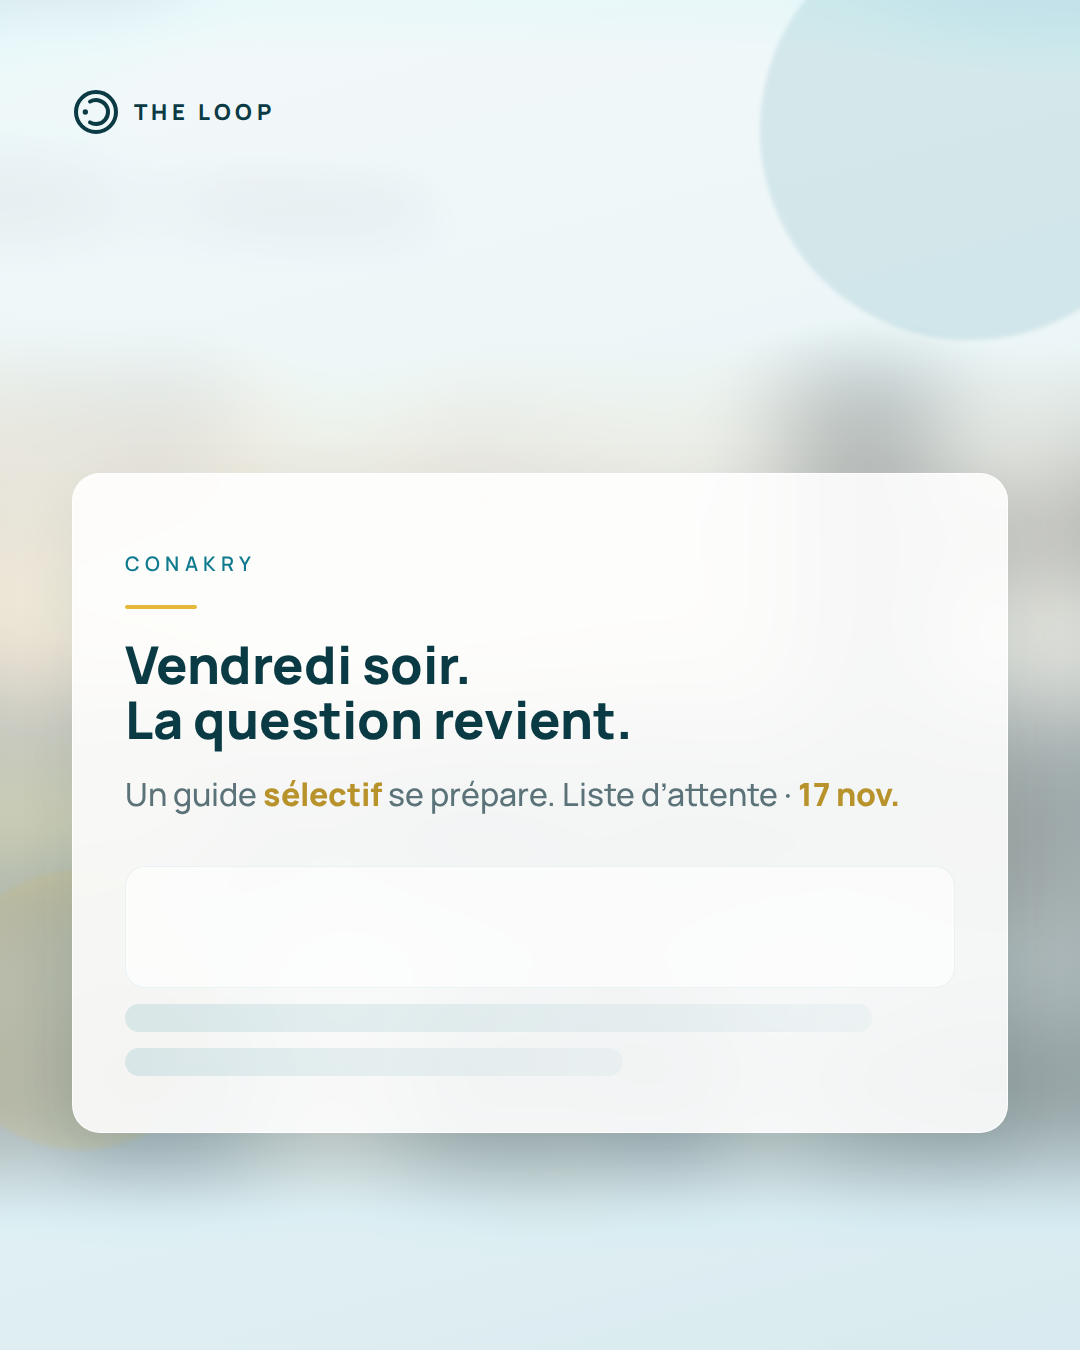
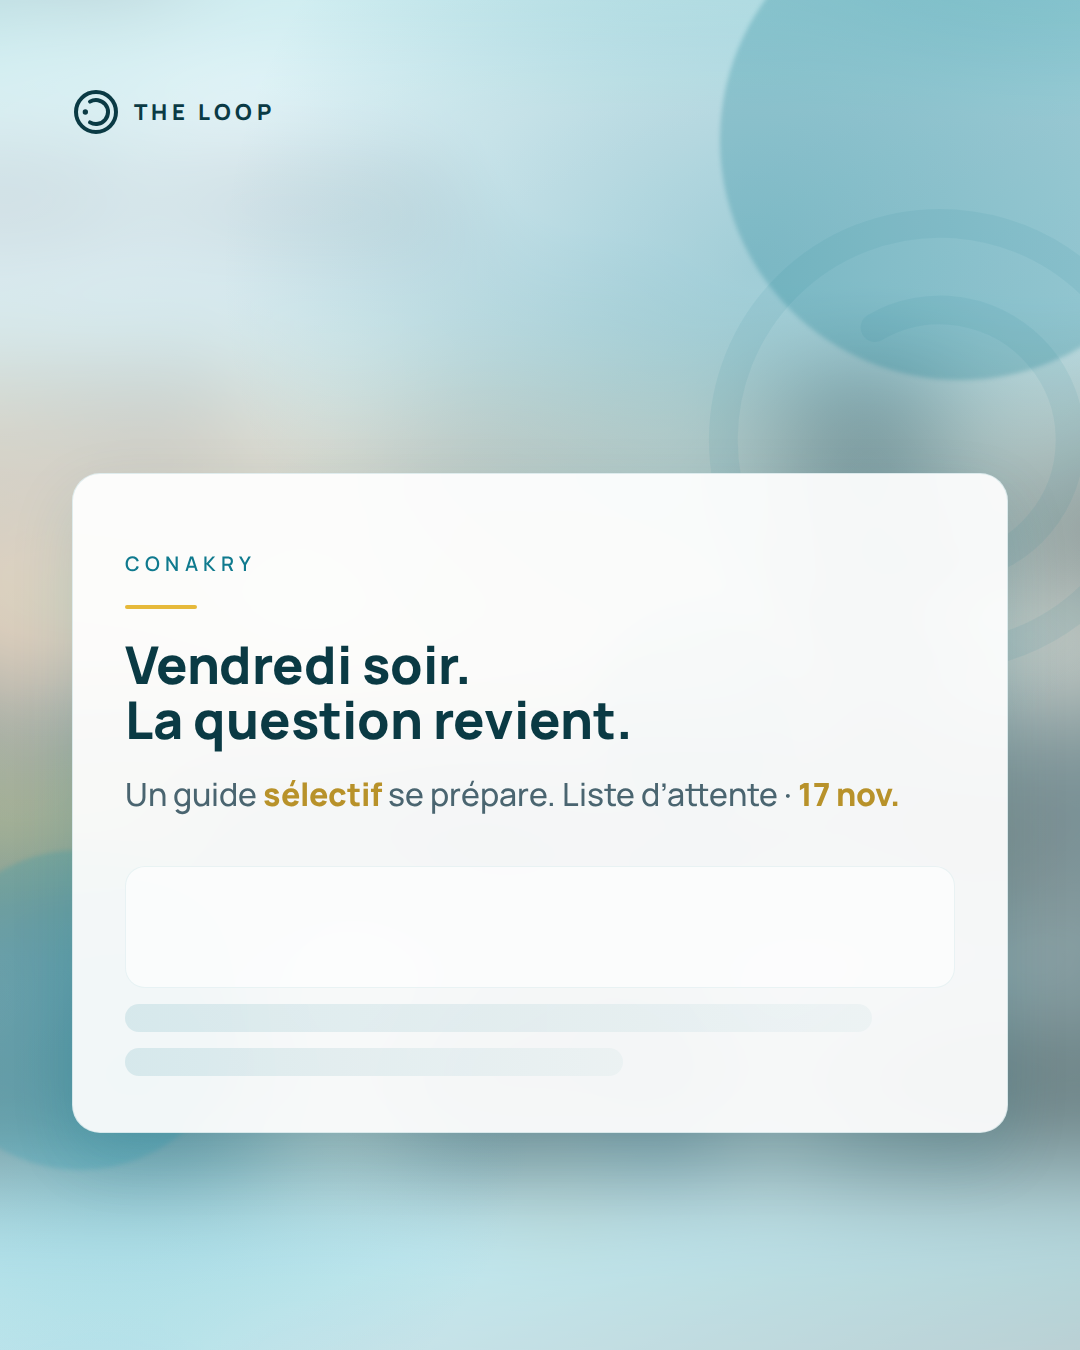
docs(com): fond texte bleu-vert renforcé + charte validée

diff --git a/docs/communication/lancement-2026/export-visuels-pack-acte-a-v4-light.html b/docs/communication/lancement-2026/export-visuels-pack-acte-a-v4-light.html
@@ -8,11 +8,13 @@
     :root {
       --deep: #0a3a44;
       --teal: #0f7a8e;
+      --teal-mid: #1596ad;
+      --teal-light: #a8d9e4;
       --gold: #e6b93a;
-      --bg: #eef6f8;
-      --bg2: #dceef2;
+      --bg: #dff0f4;
+      --bg2: #b5dde8;
       --card: #ffffff;
-      --muted: #5a7278;
+      --muted: #4a6570;
     }
     body { margin: 0; font-family: Manrope, sans-serif; background: #ccc; padding: 20px; }
     .label { color: #555; font-size: 11px; letter-spacing: 0.15em; text-transform: uppercase; text-align: center; margin: 28px 0 10px; }
@@ -22,7 +24,7 @@
       margin: 0 auto 16px;
       position: relative;
       overflow: hidden;
-      background: linear-gradient(165deg, var(--bg) 0%, var(--bg2) 55%, #c5e0e8 100%);
+      background: linear-gradient(155deg, var(--bg) 0%, var(--bg2) 42%, var(--teal-light) 78%, rgba(15,122,142,0.35) 100%);
       color: var(--deep);
     }
     .c.reel { height: 1920px; }
@@ -31,8 +33,25 @@
       position: absolute;
       inset: -20%;
       background: url('assets/capture-accueil-2.jpg') center 20% / cover no-repeat;
-      filter: blur(48px) saturate(0.85) brightness(1.15);
-      opacity: 0.35;
+      filter: blur(52px) saturate(1.25) brightness(1.05) hue-rotate(-8deg);
+      opacity: 0.42;
+    }
+    .atmo-teal {
+      position: absolute;
+      inset: 0;
+      background: radial-gradient(ellipse 90% 70% at 70% 20%, rgba(15,122,142,0.28), transparent 55%),
+        radial-gradient(ellipse 80% 60% at 10% 80%, rgba(21,150,173,0.22), transparent 50%);
+      pointer-events: none;
+      z-index: 1;
+    }
+    .watermark {
+      position: absolute;
+      right: -120px;
+      top: 180px;
+      width: 520px;
+      height: 520px;
+      opacity: 0.07;
+      z-index: 1;
     }
     .blobs {
       position: absolute;
@@ -44,8 +63,9 @@
       border-radius: 50%;
       filter: blur(2px);
     }
-    .blob.a { width: 420px; height: 420px; background: rgba(15,122,142,0.12); top: -80px; right: -100px; }
-    .blob.b { width: 280px; height: 280px; background: rgba(230,185,58,0.14); bottom: 200px; left: -60px; }
+    .blob.a { width: 480px; height: 480px; background: rgba(15,122,142,0.26); top: -100px; right: -120px; }
+    .blob.b { width: 320px; height: 320px; background: rgba(21,150,173,0.2); bottom: 180px; left: -80px; }
+    .blob.c { width: 200px; height: 200px; background: rgba(15,122,142,0.18); top: 45%; left: 55%; }
     .inner {
       position: relative;
       z-index: 2;
@@ -55,12 +75,12 @@
       flex-direction: column;
     }
     .card {
-      background: rgba(255,255,255,0.88);
-      backdrop-filter: blur(12px);
+      background: rgba(255,255,255,0.92);
+      backdrop-filter: blur(14px);
       border-radius: 28px;
       padding: 56px 52px;
-      box-shadow: 0 20px 60px rgba(10,58,68,0.08);
-      border: 1px solid rgba(255,255,255,0.9);
+      box-shadow: 0 24px 64px rgba(15,122,142,0.14);
+      border: 1px solid rgba(15,122,142,0.12);
       margin-top: auto;
       margin-bottom: auto;
     }
@@ -140,7 +160,9 @@
   <div class="label">#1 — 3/11 · Feed · clair + atmosphère (sans contenu lisible)</div>
   <div class="c">
     <div class="atmo"></div>
-    <div class="blobs"><div class="blob a"></div><div class="blob b"></div></div>
+    <div class="atmo-teal"></div>
+    <svg class="watermark" viewBox="0 0 36 36" fill="none"><circle cx="18" cy="18" r="15" stroke="#0F7A8E" stroke-width="2"/><path d="M 13.5 10.21 A 9 9 0 1 1 13.5 25.79" stroke="#0F7A8E" stroke-width="2" stroke-linecap="round"/></svg>
+    <div class="blobs"><div class="blob a"></div><div class="blob b"></div><div class="blob c"></div></div>
     <div class="inner">
       <div class="mark-row">
         <svg width="48" height="48" viewBox="0 0 36 36" fill="none"><circle cx="18" cy="18" r="15" stroke="#0A3A44" stroke-width="3"/><path d="M 13.5 10.21 A 9 9 0 1 1 13.5 25.79" stroke="#0A3A44" stroke-width="3" stroke-linecap="round"/><circle cx="10" cy="18" r="2" fill="#0A3A44"/></svg>
@@ -163,7 +185,8 @@
   <div class="label">#1 · Reels 9:16</div>
   <div class="c reel">
     <div class="atmo"></div>
-    <div class="blobs"><div class="blob b" style="top:120px;right:-40px"></div></div>
+    <div class="atmo-teal"></div>
+    <div class="blobs"><div class="blob a"></div><div class="blob b" style="top:120px;right:-40px"></div></div>
     <div class="inner" style="justify-content:flex-end;padding-bottom:160px">
       <div class="card">
         <p class="ey">The Loop</p>
@@ -176,7 +199,8 @@
 
   <div class="label">#2 — 5/11 · Signature · clair</div>
   <div class="c">
-    <div class="atmo" style="opacity:0.25;background-position:center 60%"></div>
+    <div class="atmo" style="background-position:center 60%"></div>
+    <div class="atmo-teal"></div>
     <div class="inner" style="justify-content:center">
       <div class="card" style="text-align:center">
         <p class="quote">« Les bonnes adresses ne s'annoncent pas. »</p>

diff --git a/docs/communication/lancement-2026/CHARTE-FOND-TEXTE.md b/docs/communication/lancement-2026/CHARTE-FOND-TEXTE.md
@@ -1,0 +1,30 @@
+# Charte — fond « posts écrits » (validé)
+
+## Quand l’utiliser
+- **Acte A** (3 → 16/11) : toutes les **images** + cartes texte pour vidéos.
+- **Posts texte** après 17/11 : J-x, citations, critères, CTA courts — **sans** capture app lisible.
+- **Pas pour** : révélation app (≥ 17/12 pré-launch, 24/12 lancement) → captures nettes.
+
+## Fichier source
+- HTML : `export-visuels-pack-acte-a-v4-light.html`
+- PNG exportés : `exports-png-v4-light/`
+- Regénérer : `node scripts/export-slides-png-v4.mjs`
+
+## Recette visuelle
+1. **Fond** : dégradé bleu-vert clair (#DFF0F4 → #B5DDE8 → teal light).
+2. **Atmosphère** : capture app **blur 52px**, opacité ~0,42 (lumière, pas contenu).
+3. **Overlay** : radial teal 20–28 %.
+4. **Carte blanche** : bordure teal 12 %, ombre teal.
+5. **Typo** : Manrope · titres #0A3A44 · surtitre #0F7A8E · accent #E6B93A.
+6. **Squelettes** (option) : barres teal 8–12 % — « chargement » sans fiche.
+7. **Watermark** : arc logo 7 % opacité.
+
+## Nouveau texte (workflow)
+1. Dupliquer une slide dans le HTML ou demander une export.
+2. Changer `ey`, `h`, `p` uniquement.
+3. Export PNG → photothèque → Facebook.
+
+## Ce qui manque encore (volontairement ailleurs)
+- **Chaleur humaine** → vidéos **6/11+** + **ta voix**.
+- **Conakry réelle** → stories **7–16/12**.
+- **Produit** → **17/12** mail 100, **24/12** public.
